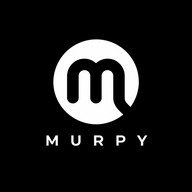
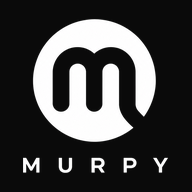
fix(pwa): 아이콘 소스를 대표 지정 로고(머피로고\누끼딴거.png)로 교체
logo.png(검정 배경이 구워진 것) 대신 투명 배경 누끼 원본을 쓴다.
여백을 실측 bbox 로 잘라낸 뒤 우리가 직접 주므로 크기·여백을 정확히 통제한다.

 icon-192 / icon-512        로고 점유 80% (아이콘 여백 관례)
 icon-maskable-512          로고 점유 62%
   ★안드로이드 maskable 안전영역은 가운데 80%다. 그 안에서 다시 여백을 둬야
     원형 마스크에서 아래쪽 'MURPY' 글자가 안 잘린다. 원형·스퀘어클 마스크
     시뮬레이션으로 둘 다 안 잘리는 것 확인함.

배경은 #0a0a0a — manifest 의 theme_color/background_color 와 같은 값이라
스플래시에서 아이콘 배경과 화면 배경이 이어져 보인다.

diff --git a/sw.js b/sw.js
@@ -1,7 +1,7 @@
 // 배포마다 이 버전을 올려야 자동 새버전 적용(새로고침)이 동작함
-const CACHE_NAME = 'murpy-v369';
-const STATIC_CACHE = 'murpy-static-v369';
-const CDN_CACHE = 'murpy-cdn-v369';
+const CACHE_NAME = 'murpy-v370';
+const STATIC_CACHE = 'murpy-static-v370';
+const CDN_CACHE = 'murpy-cdn-v370';
 // 이미지 캐시는 버전 안 붙임 → 코드/HTML 배포해도 유지(URL이 곧 버전)
 const IMG_CACHE = 'murpy-img';
 

diff --git a/index.html b/index.html
@@ -7846,7 +7846,7 @@ document.getElementById('create-crew-panel').querySelector('.back-btn').addEvent
 
 // ===== 서비스 워커 등록 (PWA 홈화면 설치) =====
 // ★배포할 때 sw.js 의 murpy-vNNN 과 **같은 숫자로** 올릴 것. 이게 CDN 캐시를 깬다.
-window._SW_V = '369';
+window._SW_V = '370';
 // 마이페이지 하단 앱 정보에 현재 버전 표시
 try {
   window.addEventListener('load', function () {
